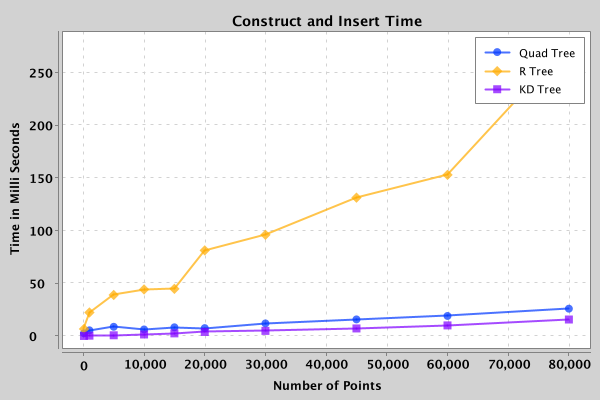
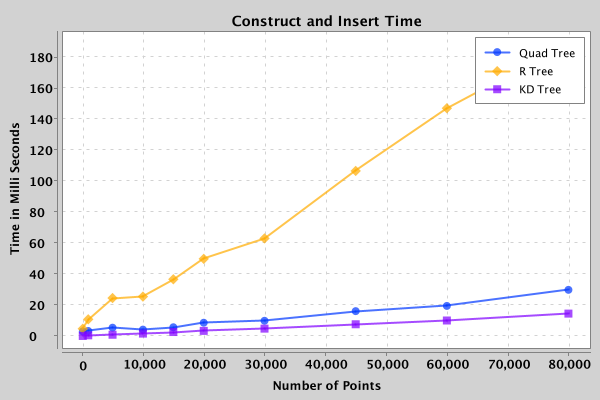
Add timeit util function and results for search and insert

diff --git a/src/main/java/driver/TimeIt.java b/src/main/java/driver/TimeIt.java
@@ -12,9 +12,11 @@ import util.Generator;
 
 import java.io.IOException;
 import java.util.ArrayList;
+import java.util.Collections;
 import java.util.List;
 
 import static util.Time.constructionTime;
+import static util.Time.searchTime;
 
 public class TimeIt {
     static int min = 0;
@@ -25,19 +27,30 @@ public class TimeIt {
     }
     
     private static void chartOne() throws IOException {
-        final XYChart chart = new XYChartBuilder().width(600).height(400)
+        final XYChart constructionChart = new XYChartBuilder().width(600).height(400)
                 .title("Construct and Insert Time").xAxisTitle("Number of Points")
                 .yAxisTitle("Time in Milli Seconds").build();
 
-        chart.getStyler().setLegendPosition(Styler.LegendPosition.InsideNE);
-        chart.getStyler().setDefaultSeriesRenderStyle(XYSeries.XYSeriesRenderStyle.Line);
+        constructionChart.getStyler().setLegendPosition(Styler.LegendPosition.InsideNE);
+        constructionChart.getStyler().setDefaultSeriesRenderStyle(XYSeries.XYSeriesRenderStyle.Line);
+
+        final XYChart searchChart = new XYChartBuilder().width(600).height(400)
+                .title("Search Time").xAxisTitle("Number of Points")
+                .yAxisTitle("Time in Milli Seconds").build();
+
+        searchChart.getStyler().setLegendPosition(Styler.LegendPosition.InsideNE);
+        searchChart.getStyler().setDefaultSeriesRenderStyle(XYSeries.XYSeriesRenderStyle.Line);
 
         double[] countList = new double[] {100.0, 1000.0, 5000.0, 10000.0, 15000.0, 20000.0,
                 30000.0, 45000.0, 60000.0, 80000.0};
 
-        List<Double> quadTimes = new ArrayList<>();
-        List<Double> rTimes = new ArrayList<>();
+        List<Double> quadInserts = new ArrayList<>();
+        List<Double> rInserts = new ArrayList<>();
         List<Double> kdTimes = new ArrayList<>();
+
+        List<Double> quadSearches = new ArrayList<>();
+        List<Double> rSearches = new ArrayList<>();
+        List<Double> kdSearches = new ArrayList<>();
 
         for (Double count: countList) {
             List<Point> points = Generator.points(min, max, count.intValue(), 0);
@@ -46,15 +59,29 @@ public class TimeIt {
             RTree rTree = new RTree();
             KDTree kdTree = new KDTree();
 
-            quadTimes.add(constructionTime(quadTree, points));
-            rTimes.add(constructionTime(rTree, points));
-            kdTimes.add(constructionTime(kdTree, new KDNode(points.get(0)), points));
+            KDNode rootNode = new KDNode(points.get(0));
+
+            quadInserts.add(constructionTime(quadTree, points)/1000000.0);
+            rInserts.add(constructionTime(rTree, points)/1000000.0);
+            kdTimes.add(constructionTime(kdTree, rootNode, points)/1000000.0);
+
+            Collections.shuffle(points);
+
+            quadSearches.add(searchTime(quadTree, points)/1000000.0);
+            rSearches.add(searchTime(rTree, points)/1000000.0);
+            kdSearches.add(searchTime(kdTree, rootNode, points)/1000000.0);
         }
 
-        chart.addSeries("Quad Tree", countList, quadTimes.stream().mapToDouble(Double::doubleValue).toArray());
-        chart.addSeries("R Tree", countList, rTimes.stream().mapToDouble(Double::doubleValue).toArray());
-        chart.addSeries("KD Tree", countList, kdTimes.stream().mapToDouble(Double::doubleValue).toArray());
+        constructionChart.addSeries("Quad Tree", countList, quadInserts.stream().mapToDouble(Double::doubleValue).toArray());
+        constructionChart.addSeries("R Tree", countList, rInserts.stream().mapToDouble(Double::doubleValue).toArray());
+        constructionChart.addSeries("KD Tree", countList, kdTimes.stream().mapToDouble(Double::doubleValue).toArray());
 
-        BitmapEncoder.saveBitmap(chart, "images/results/tree-construction", BitmapEncoder.BitmapFormat.PNG);
+        BitmapEncoder.saveBitmap(constructionChart, "images/results/tree-construction", BitmapEncoder.BitmapFormat.PNG);
+
+        searchChart.addSeries("Quad Tree", countList, quadSearches.stream().mapToDouble(Double::doubleValue).toArray());
+        searchChart.addSeries("R Tree", countList, rSearches.stream().mapToDouble(Double::doubleValue).toArray());
+        searchChart.addSeries("KD Tree", countList, kdSearches.stream().mapToDouble(Double::doubleValue).toArray());
+
+        BitmapEncoder.saveBitmap(searchChart, "images/results/tree-access", BitmapEncoder.BitmapFormat.PNG);
     }
 }

diff --git a/src/main/java/util/Time.java b/src/main/java/util/Time.java
@@ -12,21 +12,23 @@ import java.util.List;
 public class Time {
 
     public static double constructionTime(RegionTree tree, List<Point> points) {
+        System.out.printf("Constructing %s for size %d \n", tree.getClass(), points.size());
         long startTime = System.nanoTime();
         for (Point point: points) {
-            tree.insert(Geometry.getRectangle(point));
+            tree.insert(Geometry.toRectangle(point));
         }
         long endTime = System.nanoTime();
-        return (endTime - startTime)/1000000.0;
+        return (endTime - startTime);
     }
 
     public static double constructionTime(KDTree tree, KDNode root, List<Point> points) {
+        System.out.printf("Constructing %s for size %d \n", tree.getClass(), points.size());
         long startTime = System.nanoTime();
         for (Point point: points) {
             tree.insert(root, point);
         }
         long endTime = System.nanoTime();
-        return (endTime - startTime)/1000000.0;
+        return (endTime - startTime);
     }
 
     public static long constructionTime(HybridTree hybridTree, RegionTree gridTree,
@@ -50,5 +52,28 @@ public class Time {
         }
         long endTime = System.nanoTime();
         return (endTime - startTime)/points.size();
+    }
+
+    public static double searchTime(RegionTree tree, List<Point> points) {
+        System.out.printf("Searching %s for size %d \n", tree.getClass(), points.size());
+        long startTime = System.nanoTime();
+        for (Point point: points) {
+            tree.search(Geometry.toRectangle(point));
+        }
+        long endTime = System.nanoTime();
+        return (endTime - startTime);
+    }
+
+    public static double searchTime(KDTree tree, KDNode root, List<Point> points) {
+        System.out.printf("Searching %s for size %d \n", tree.getClass(), points.size());
+        long startTime = System.nanoTime();
+        for (Point point: points) {
+            boolean isPresent = tree.search(root, point);
+            if (!isPresent) {
+                System.out.print("Danger!!!!");
+            }
+        }
+        long endTime = System.nanoTime();
+        return (endTime - startTime);
     }
 }

diff --git a/src/main/java/util/Geometry.java b/src/main/java/util/Geometry.java
@@ -33,7 +33,7 @@ public class Geometry {
         return area;
     }
 
-    public static Rectangle getRectangle(Point point) {
+    public static Rectangle toRectangle(Point point) {
         return new BaseRectangle((double) point.getX(), (double) point.getY(), 0.0, 0.0);
     }
 }
